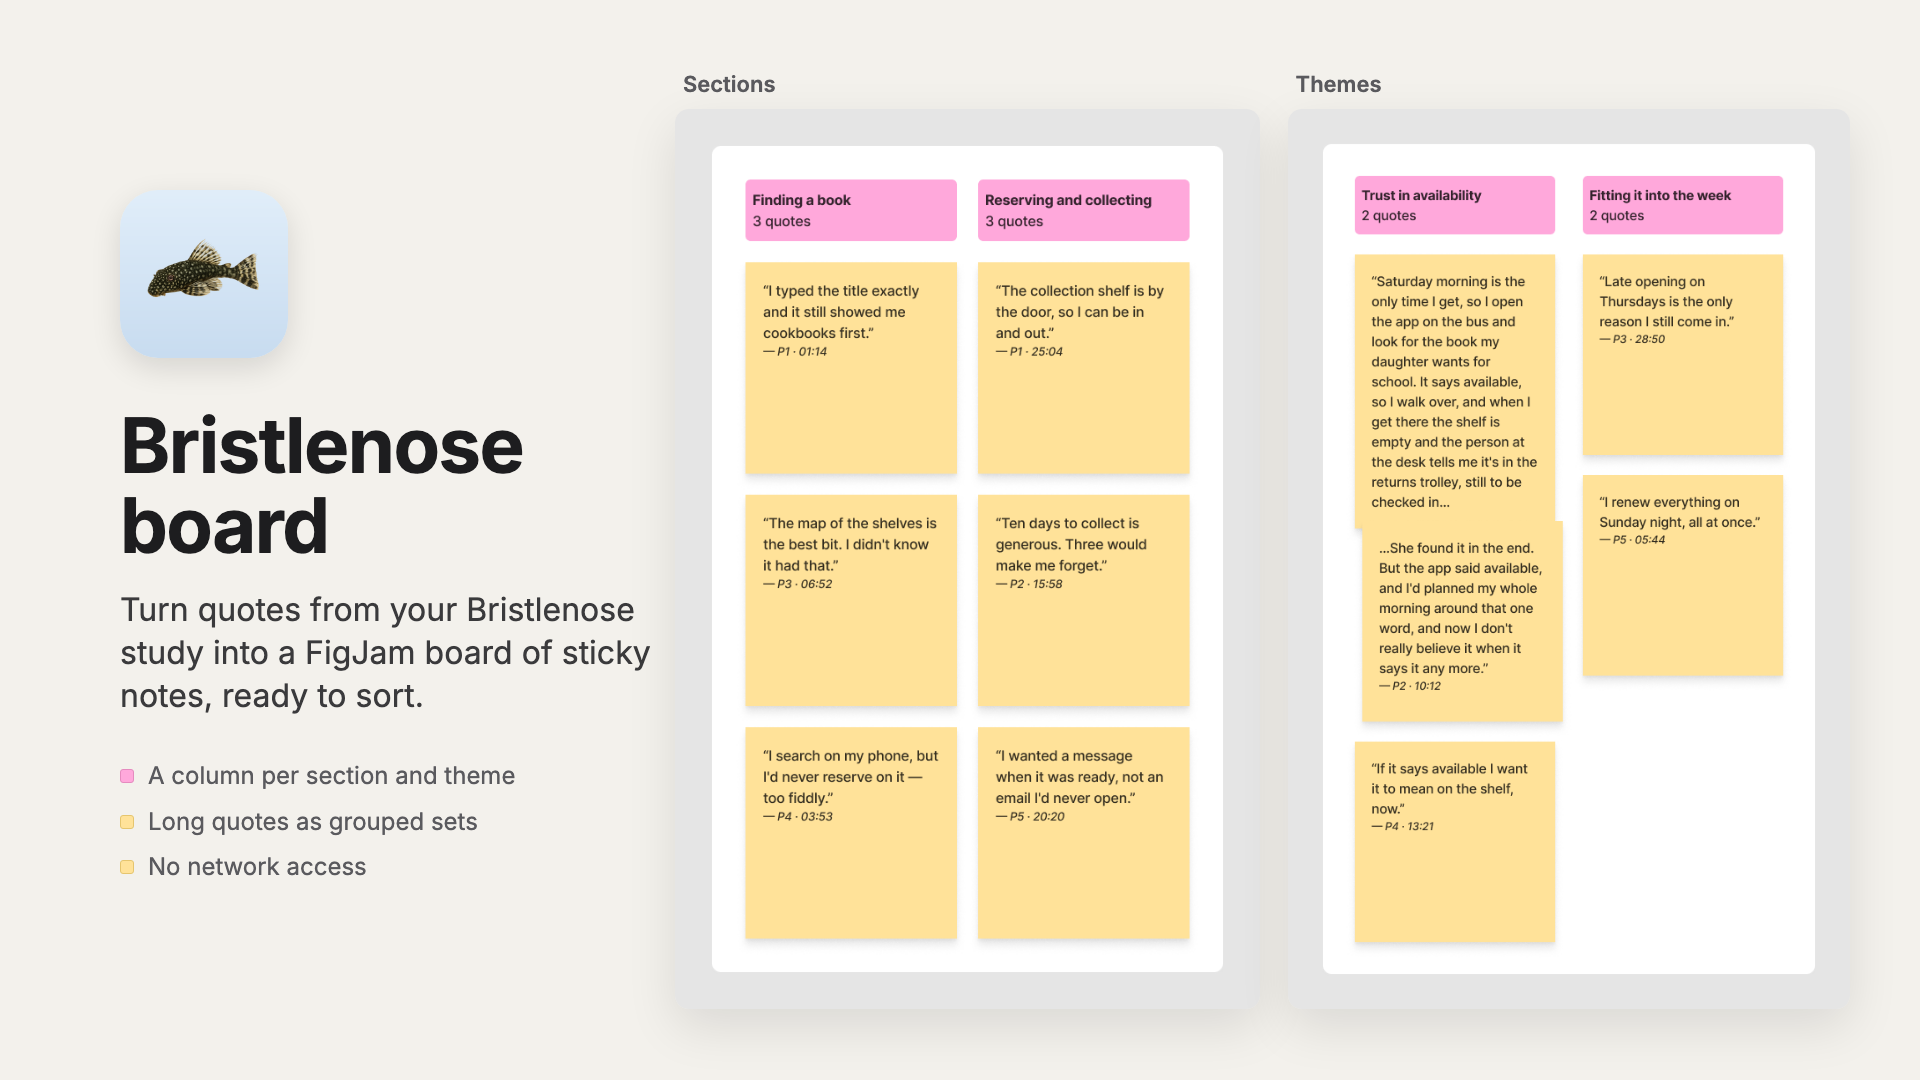
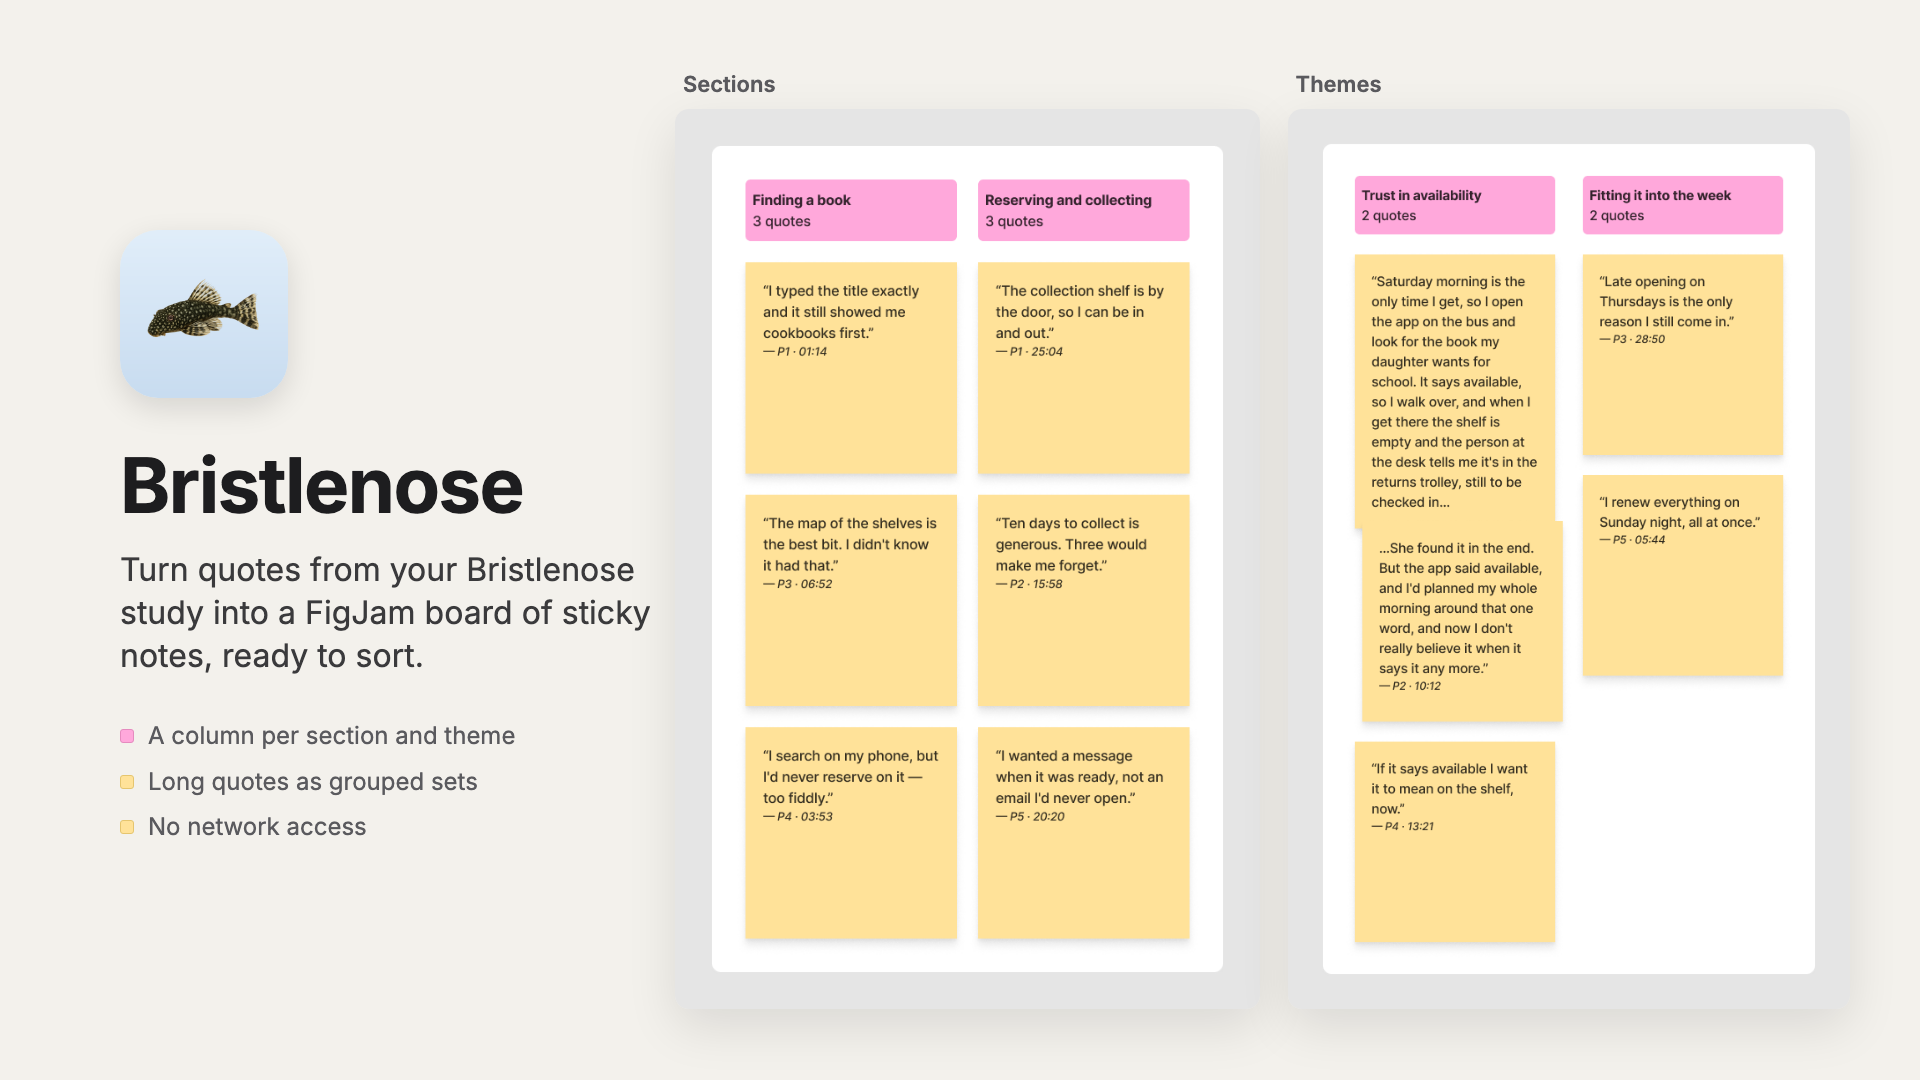
figjam plugin: named "Bristlenose", not "Bristlenose board", before it is published
The name is fixed in every installed copy once the app's FigJam steps ship
("Run the Bristlenose plugin.", 21 languages), so it is settled before the
Community submission. The listing no longer offers clip links, parked on
boards since 0.42.0.

Changed region(s): [[0.0625, 0.2139, 0.3438, 0.825]]

diff --git a/figjam-plugin/src/board.ts b/figjam-plugin/src/board.ts
@@ -57,7 +57,7 @@ export class Refusal extends Error {
 export const REFUSAL_TEXT: Record<RefusalKind, string> = {
   not_json: "That file isn't a Bristlenose board file. Choose the .json file Bristlenose downloaded.",
   not_a_board: "That file isn't a Bristlenose board file. Choose the .json file Bristlenose downloaded.",
-  too_new: "This board was made by a newer Bristlenose. Update the Bristlenose board plugin, then try again.",
+  too_new: "This board was made by a newer Bristlenose. Update the Bristlenose plugin, then try again.",
   malformed: "This board file is damaged or was edited by hand, so it can't be drawn. Download it again from Bristlenose.",
   too_large: "This board file is too large to draw in one go. Export a smaller selection from Bristlenose.",
 };

diff --git a/desktop/Bristlenose/Bristlenose/BristlenoseFlags.swift b/desktop/Bristlenose/Bristlenose/BristlenoseFlags.swift
@@ -55,7 +55,7 @@ enum BristlenoseFlags {
     }
 
     /// Offer **Send to FigJam…** in the Quotes menu and the export popover.
-    /// **Default off** — parked 17 Oct 2026 until the Bristlenose board plugin
+    /// **Default off** — parked 17 Oct 2026 until the Bristlenose plugin
     /// is published in Figma Community: a row whose last step is "run a plugin
     /// you can't install" is a dead affordance. The sheet (`FigJamSheet`) and
     /// the download route it calls build and run regardless; this hides the

diff --git a/figjam-plugin/publishing/cover-src/cover.html b/figjam-plugin/publishing/cover-src/cover.html
@@ -15,7 +15,7 @@ ul li:first-child::before{background:#FFA8DB;border-color:#e58bbf}
 </style></head><body>
 <div class="left">
 <img src="fish.png" alt="">
-<h1>Bristlenose board</h1>
+<h1>Bristlenose</h1>
 <p>Turn quotes from your Bristlenose study into a FigJam board of sticky notes, ready to sort.</p>
 <ul><li>A column per section and theme</li><li>Long quotes as grouped sets</li><li>No network access</li></ul>
 </div>

diff --git a/figjam-plugin/publishing/PUBLISHING.md b/figjam-plugin/publishing/PUBLISHING.md
@@ -1,4 +1,4 @@
-# Publishing the Bristlenose board plugin
+# Publishing the Bristlenose plugin
 
 Everything for the Figma Community submission, drafted 19 Oct 2026. The
 listing facts come from Figma's help centre as of that date (the "Publish
@@ -32,7 +32,7 @@ because Figma does not publish its field limits.
 
 ## Submitting
 
-1. Figma desktop app › Plugins › Manage plugins, then **Publish** on Bristlenose board.
+1. Figma desktop app › Plugins › Manage plugins, then **Publish** on Bristlenose.
 2. The dialog will say the manifest id is invalid (`bristlenose-board-dev` is a
    placeholder). Click **Generate ID**, put the new id in
    `figjam-plugin/manifest.json`, rebuild, and commit that one-line change to
@@ -46,13 +46,13 @@ because Figma does not publish its field limits.
 
 ### Describe
 
-**Name:** Bristlenose board
+**Name:** Bristlenose
 
 **Tagline:** Build a research board of sticky notes from a Bristlenose board file.
 
 **Description:**
 
-> Bristlenose board builds a research board in FigJam from the board file that
+> This plugin builds a research board in FigJam from the board file that
 > Bristlenose exports.
 >
 > Bristlenose is open-source software for user researchers. It turns interview
@@ -68,11 +68,10 @@ because Figma does not publish its field limits.
 > - Long quotes broken into two or three sticky notes, grouped, so you can
 >   delete the weaker parts and keep the rest
 > - Square or wide sticky notes, as chosen in Bristlenose
-> - Links to video clips, where the researcher added them
 >
 > **How to use it**
 > 1. In Bristlenose, choose Export › Send to FigJam… and save the board file.
-> 2. Open a FigJam board and run Bristlenose board.
+> 2. Open a FigJam board and run the Bristlenose plugin.
 > 3. Choose the file, or drop it on the plugin's window.
 >
 > One undo removes everything the plugin drew.
@@ -125,7 +124,7 @@ Optional at first submission. If you fill it in later, these are the facts:
 
 1. Bristlenose with a project open: Export › Send to FigJam…, the dialog with
    the board name filled in, **Download board file** (8 s).
-2. FigJam, an empty board: run Bristlenose board, choose the file (8 s).
+2. FigJam, an empty board: run the Bristlenose plugin, choose the file (8 s).
 3. The board drawing, with the progress bar (10 s).
 4. Zoom in on a column, ⌘-click one part of a long quote's set and delete it
    (10 s).

diff --git a/figjam-plugin/README.md b/figjam-plugin/README.md
@@ -1,4 +1,4 @@
-# Bristlenose board — FigJam plugin
+# Bristlenose — FigJam plugin
 
 Builds a research board in FigJam from the board file Bristlenose downloads:
 one section per frame, a pink header sticky per column, the quotes beneath in
@@ -37,7 +37,7 @@ but the drawing itself is only proven in a real FigJam file.
 
 Needs the Figma desktop app. Build first, then in any FigJam board:
 Plugins › Development › Import plugin from manifest… and choose
-`figjam-plugin/manifest.json`. Run **Bristlenose board** and choose a file from
+`figjam-plugin/manifest.json`. Run **Bristlenose** and choose a file from
 Bristlenose's FigJam download, or `tests/fixtures/figjam-board-v1.json`.
 Pasting a board file's text into the plugin's window (⌘V) builds it too; tried
 in FigJam on 19 Oct 2026 with `publishing/sample-board.json`.
